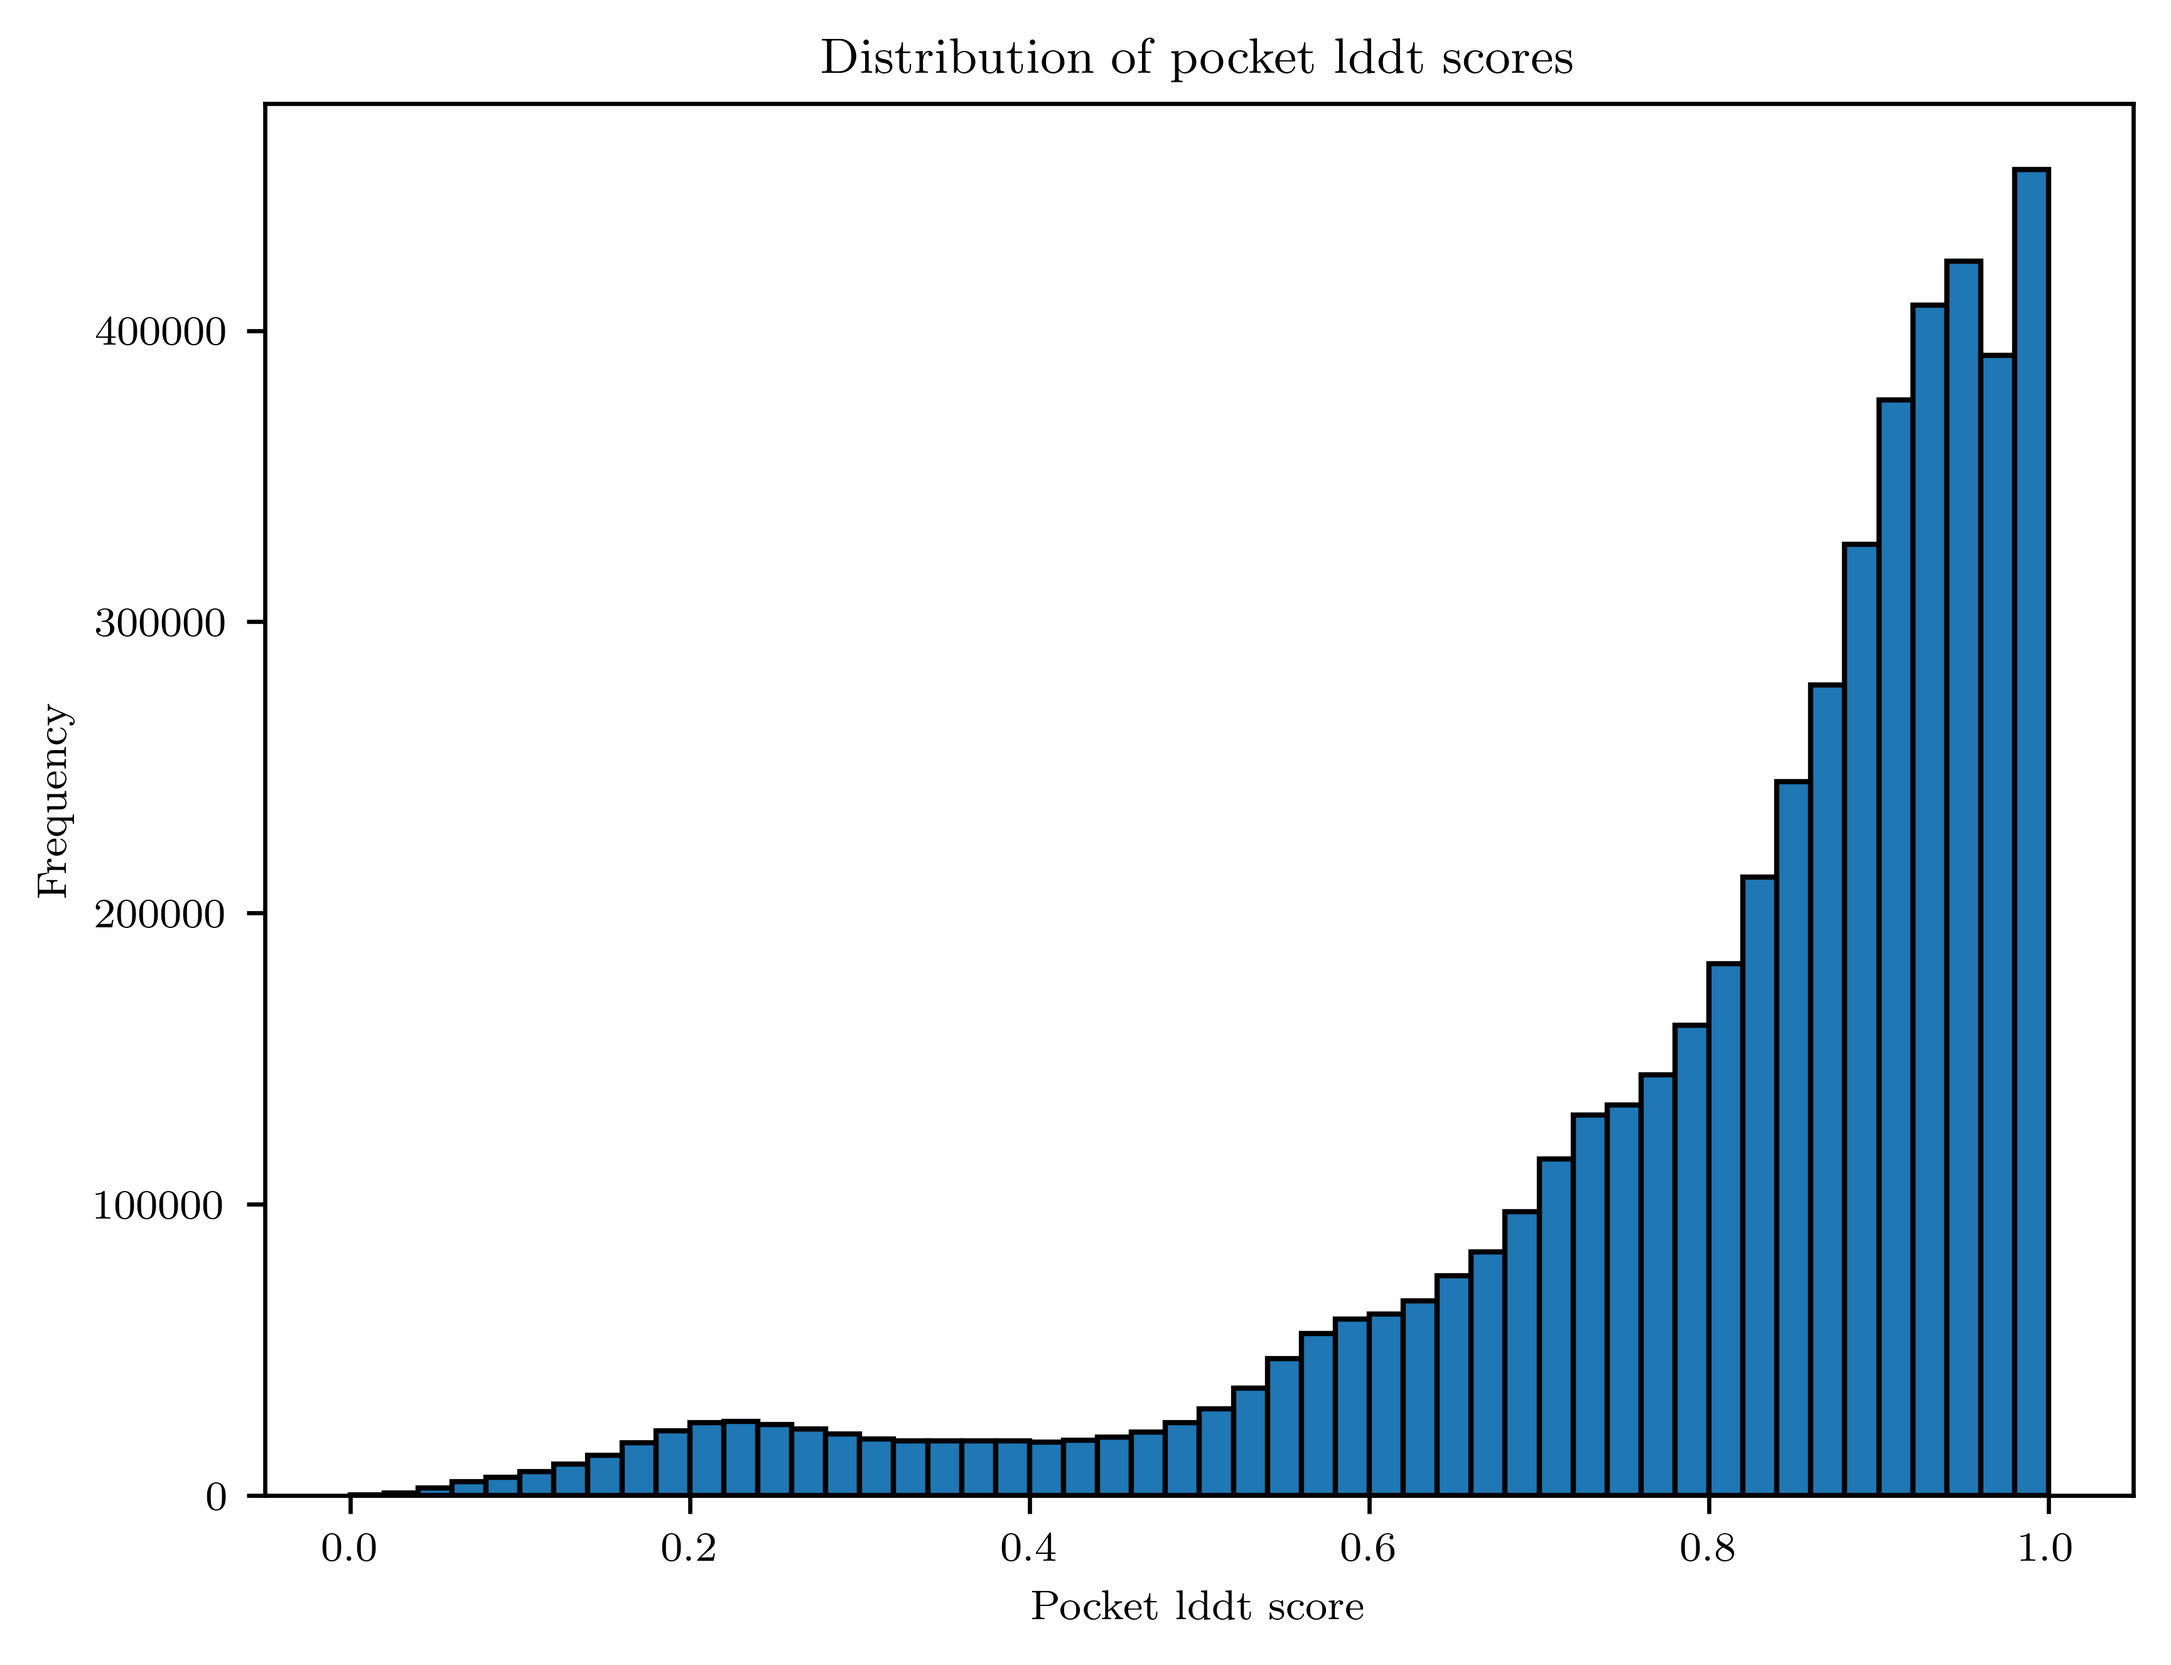
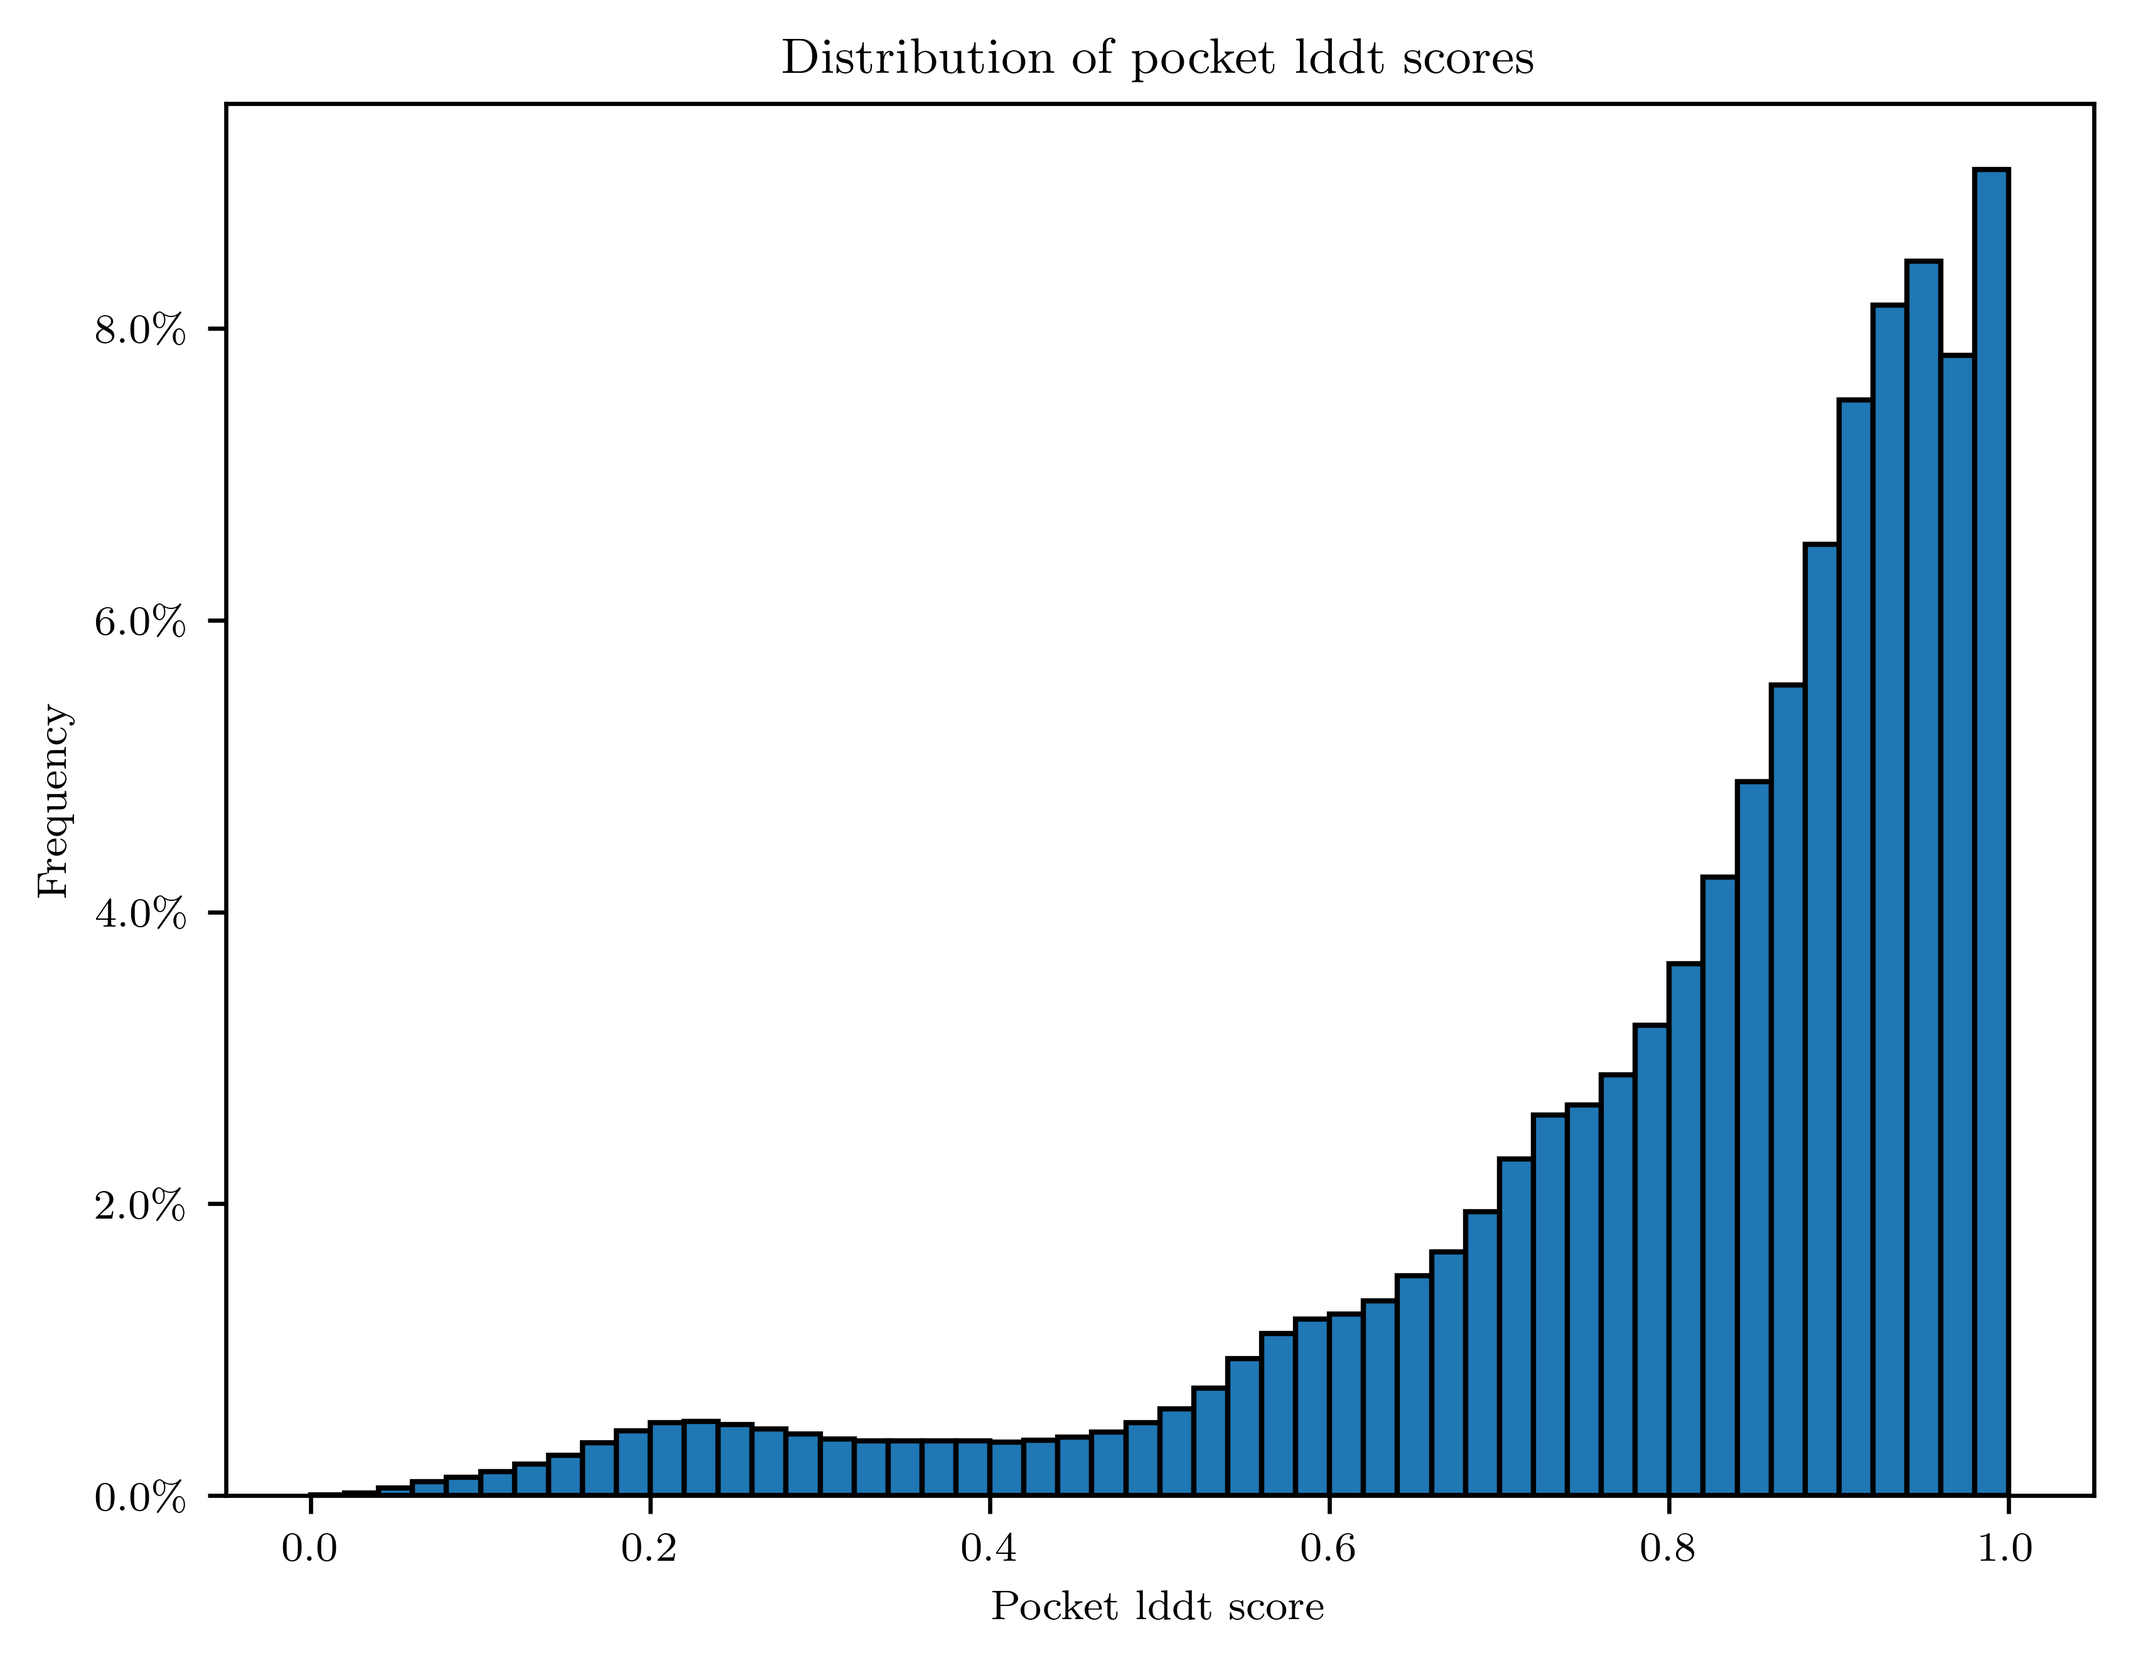
percentage

diff --git a/pocket_confidence.py b/pocket_confidence.py
@@ -17,11 +17,12 @@ combined_df = pd.read_csv(pocket_clusters_file)
 
 spearman_corr = spearmanr(combined_df['lddt'], combined_df['iptm'])
 print(f'Spearman correlation between lddt and iptm: {spearman_corr}')
-
-plt.hist(combined_df['lddt'], bins=50, edgecolor='black')
+plt.hist(combined_df['lddt'], bins=50, edgecolor='black', weights = np.ones_like(combined_df['lddt']) / len(combined_df['lddt']))
 plt.title("Distribution of pocket lddt scores")
 plt.xlabel("Pocket lddt score")
 plt.ylabel("Frequency")
+from matplotlib.ticker import PercentFormatter
+plt.gca().yaxis.set_major_formatter(PercentFormatter(1))
 plt.savefig("figs/pocket_lddt_distribution.png", bbox_inches="tight", dpi=600)
 plt.close()
 
